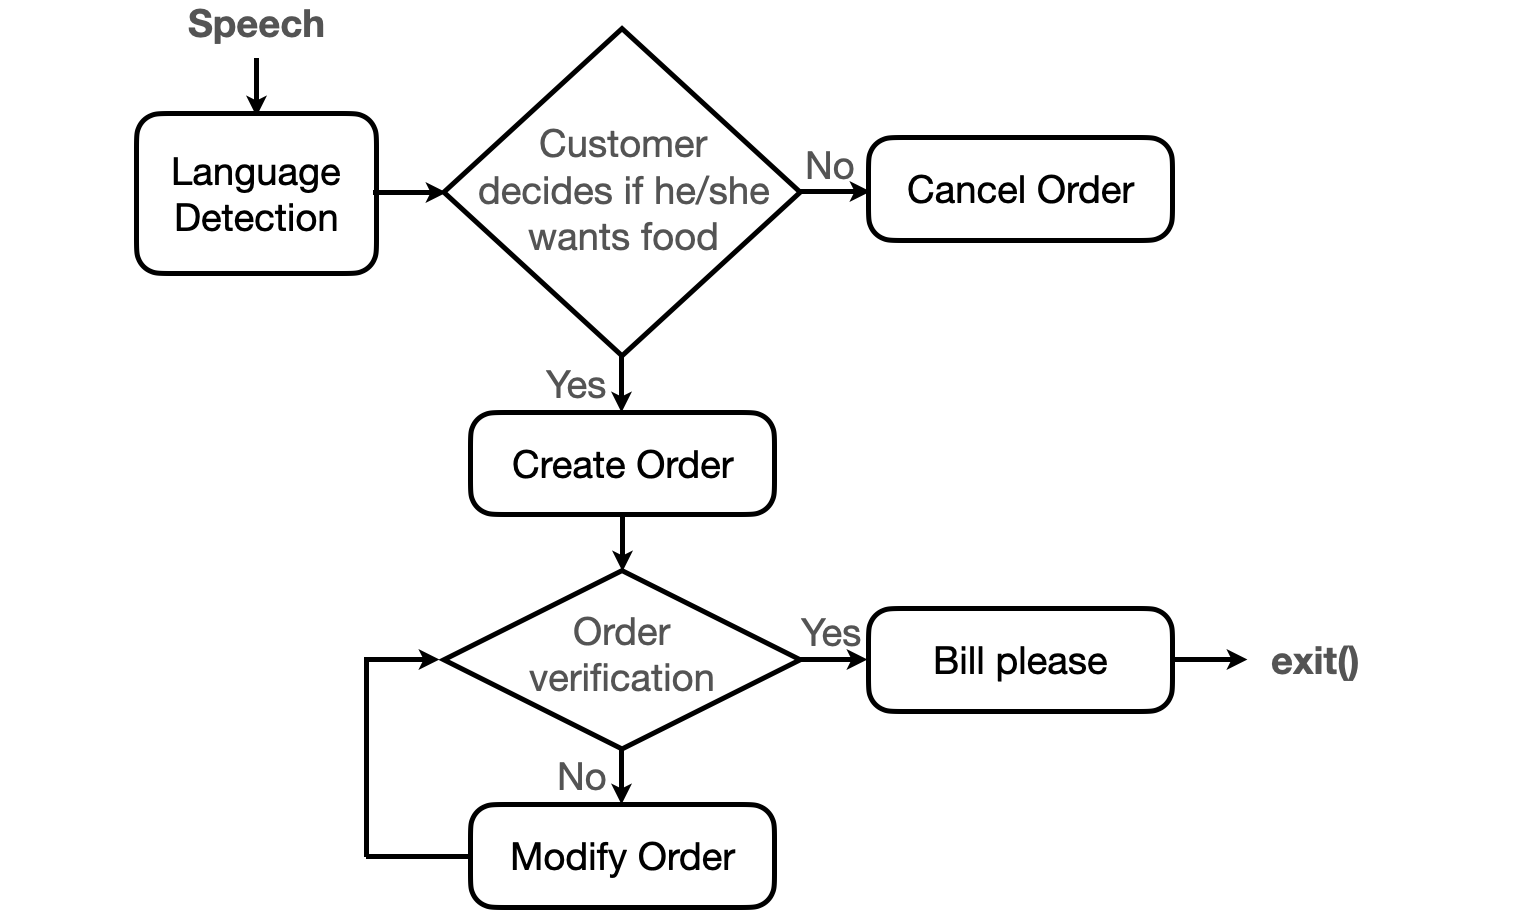
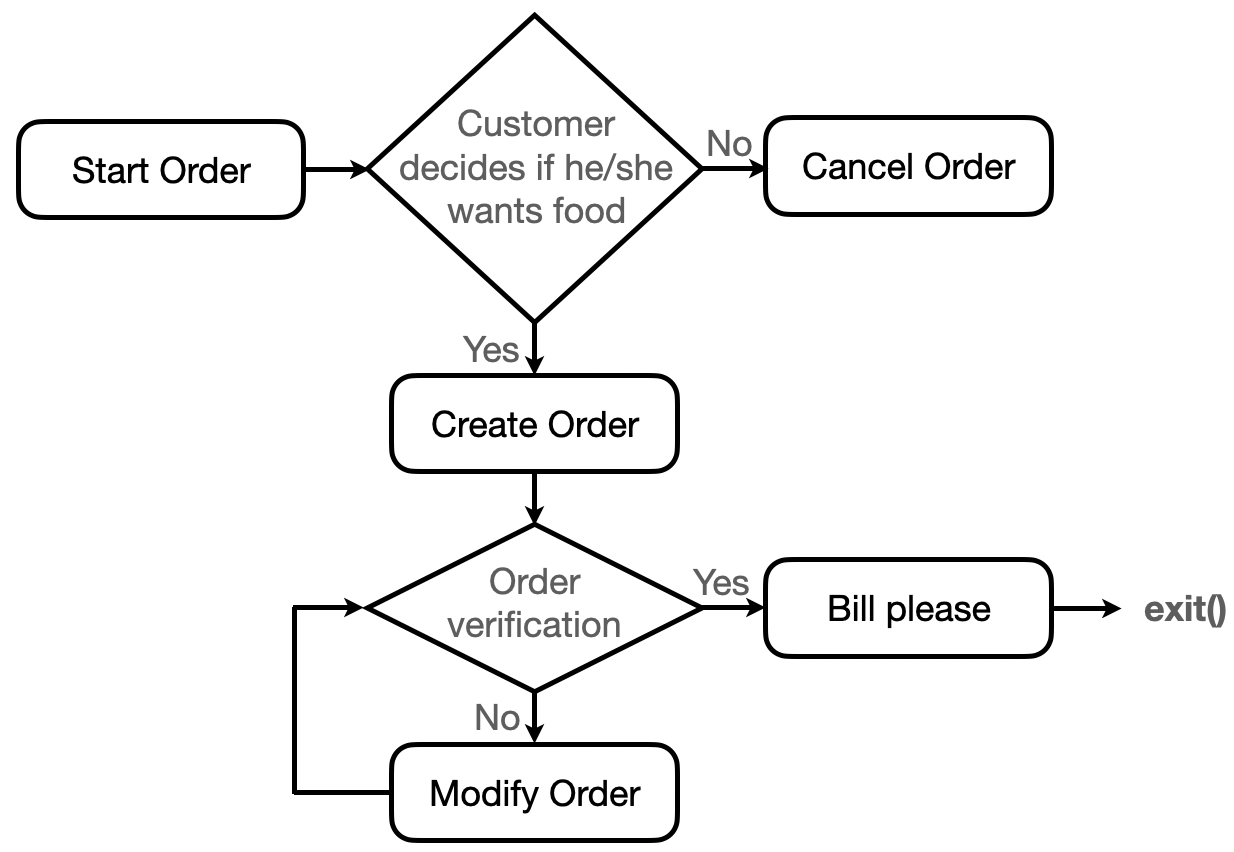
modification and uploading food ordering system

Changed region(s): [[0.0, 0.0, 1.0, 1.0]]

diff --git a/food_order.py b/food_order.py
@@ -1,0 +1,220 @@
+import pyttsx3
+
+list_food = []
+list_drink = []
+
+list_item_price = [0] * 100
+
+class ORDER:
+	def reset():
+		global list_drink, list_food, list_item_order, list_item_price
+		list_item_order = [0] * 100
+
+	def welcome():
+		bot = Speaking()
+		bot.speak("Hello How are you today")
+		bot.speak("What would you like to have")
+		ORDER.process_order()
+
+	def process_order():
+		while True:
+			bot = Speaking()
+			print("*" * 26 + " ORDER FOOD & DRINK " + "*" * 26)
+			print(" |NO| |FOOD NAME|         |PRICE|   |  |NO| |DRINK NAME|        |PRICE|")
+			i = 0
+			while i < len(list_food) or i < len(list_drink):
+				var_space = 1
+				if i <= 8:
+					var_space = 2
+
+				if i < len(list_food):
+					food = " (" + str(i + 1) + ")" + " " * var_space + str(list_food[i]) + "  | "
+				else:
+					food = " " * 36 + "| "
+				if i < len(list_drink):
+					drink = "(" + str(41 + i) + ")" + " " + str(list_drink[i])
+				else:
+					drink = ""
+				print(food, drink)
+				i += 1
+
+			print("\n (P) PAYMENT           (M) MAIN MENU           (C) CHANGE ORDER          (E) EXIT\n" + "_" * 72)
+			input_ops = input("Please Select Your Operation: ").upper()
+			bot.speak("Please Select Your Operation")
+
+			if (input_ops == 'P'):
+				print("\n" * 10)
+				ORDER.bill_please()
+				break
+			if (input_ops == 'M'):
+				print("\n" * 10)
+				ORDER.process_order()
+				break
+			if (input_ops == 'C'):
+				ORDER.modify_order()
+				break
+			if (input_ops == 'E'):
+				ORDER.cancel_order()
+				break
+
+			try:
+				int(input_ops)
+				if ((int(input_ops) <= len(list_food) and int(input_ops) > 0) or (int(input_ops) <= len(list_drink) + 40 and int(input_ops) > 40)):
+					try:
+						print("\n" + "_" * 72 + "\n" + str(list_food[int(input_ops) - 1]))
+					except:
+						pass
+					try:
+						print("\n" + "_" * 72 + "\n" + str(list_drink[int(input_ops) - 41]))
+					except:
+						pass
+
+					input_qty = input("How Many You Want to Order? ").upper()
+					bot.speak("How Many You Want to Order")
+					if int(input_qty) != 0:
+						if int(input_qty) > 0:
+							list_item_order[int(input_ops) - 1] += int(input_qty)
+							print("\n" * 10)
+							print("Successfully Ordered!")
+							ORDER.process_order()
+							break
+						else:
+							if (list_item_order[int(input_ops) - 1]) <= 0:
+								print("\n" * 10 + "ERROR: Invalid Input (" + str(input_qty) + "). Try again!")
+							else:
+								if ( int(input_qty) + list_item_order[int(input_ops) - 1] >= 0):
+									list_item_order[int(input_ops) - 1] += int(input_qty)
+									print("\n" * 10)
+									print("Successfully Ordered!")
+									ORDER.process_order()
+									break
+								else:
+									print("\n" * 10 + "ERROR: Invalid Input (" + str(input_qty) + "). Try again!")
+					else:
+						print("\n" * 10 + "ERROR: Invalid Input (" + str(input_qty) + "). Try again!")
+			except:
+				print("\n" * 10 + "ERROR: Invalid Input (" + str(input_ops) + "). Try again!")
+
+	def menu_reader():
+		file_food = open('menu/list_food.fsd', 'r')
+		for i in file_food:
+			list_food.append(str(i.strip()))
+		file_food.close()
+
+		file_drink = open('menu/list_drink.fsd', 'r')
+		for i in file_drink:
+			list_drink.append(str(i.strip()))
+		file_drink.close()
+
+		i = 0
+		while i <= (len(list_food) - 1):
+			if 'US' in list_food[i]:
+				list_food[i] = str(list_food[i][:list_food[i].index('US') - 1]) + ' ' * (20 - (list_food[i].index('US') - 1)) + str(list_food[i][list_food[i].index('US'):])
+			i += 1
+
+		i = 0
+		while i <= (len(list_drink) - 1):
+			if 'US' in list_drink[i]:
+				list_drink[i] = str(list_drink[i][:list_drink[i].index('US') - 1]) + ' ' * (20 - (list_drink[i].index('US') - 1)) + str(list_drink[i][list_drink[i].index('US'):])
+			i += 1
+
+	def price_reader():
+		global list_food, list_drink
+		list_food = sorted(list_food)
+		list_drink = sorted(list_drink)
+
+		i = 0
+		while i < len(list_food):
+			list_item_price[i] = float(list_food[i][int(list_food[i].index("US") + 3):])
+			i += 1
+
+		i = 0
+		while i < len(list_drink):
+			list_item_price[40 + i] = float(list_drink[i][int(list_drink[i].index("US") + 3):])
+			i += 1
+
+	def modify_order():
+		print("\n" * 10)
+		bot = Speaking()
+		bot.speak("Here is your order list")
+		print("*" * 30 + " ORDER LIST " + "*" * 30 + "\n")
+		total_price = 0
+		i = 0
+		while i < len(list_item_order):
+			if(list_item_order[i] != 0):
+				if (i >= 0) and (i < 40):
+					print(" " * 17 + " (" + str(i + 1) + ")" + str(list_food[i]) + "  x  " + str(list_item_order[i]))
+					total_price += list_item_price[i] * list_item_order[i]
+				if (i >= 40) and (i < 80):
+					print(" " * 17 + " (" + str(i + 1) + ")" + str(list_drink[i - 40]) + "   x  " + str(list_item_order[i]))
+					total_price += list_item_price[i] * list_item_order[i]
+				i += 1
+			else:
+				i += 1
+		print(" " * 17 + "_" * 35 + "\n" + " " * 17 + "TOTAL PRICES:       US " + str(round(total_price, 2)) + "\n")
+		ORDER.process_order()
+
+	def cancel_order():
+		bot = Speaking()
+		bot.speak("Thank you")
+		print("*" * 32 + " THANK YOU " + "*" * 31 + "\n")
+
+	def bill_please():
+		while True:
+			bot = Speaking()
+			bot.speak("Here is your bill")
+			print("*" * 32 + " PAYMENT " + "*" * 33 + "\n")
+			total_price = 0
+			i = 0
+			while i < len(list_item_order):
+				if(list_item_order[i] != 0):
+					if (i >= 0) and (i < 40):
+						print(" " * 17 + str(list_food[i]) + "  x  " + str(list_item_order[i]))
+						total_price += list_item_price[i] * list_item_order[i]
+					if (i >= 40) and (i < 80):
+						print(" " * 17 + str(list_drink[i - 40]) + "   x  " + str(list_item_order[i]))
+						total_price += list_item_price[i] * list_item_order[i]
+					i += 1
+				else:
+					i += 1
+			print(" " * 17 + "_" * 35 + "\n" + " " * 17 + "TOTAL PRICES:       US " + str(round(total_price, 2)))
+			print("\n (P) PAY           (M) MAIN MENU           (C) CHANGE ORDER          (E) EXIT\n" + "_" * 72)
+			bot.speak("Please select your operation")
+			input_ops = str(input("Please Select Your Operation: ")).upper()
+			if (input_ops == 'P'):
+				print("\n" * 10)
+				if (total_price > 0):
+					bot.speak("Successfully paid")
+					print("Successfully Paid!")
+				else:
+					bot.speak("Thank you")
+					print("*" * 32 + " THANK YOU " + "*" * 31 + "\n")
+
+				break
+
+			elif (input_ops == 'M'):
+				print("\n" * 10)
+				ORDER.process_order()
+				break
+			elif (input_ops == 'C'):
+				print("\n" * 10)
+				ORDER.modify_order()
+				break
+			elif ('E' in input_ops) or ('e' in input_ops):
+				ORDER.cancel_order()
+				break
+			else:
+				print("\n" * 10 + "ERROR: Invalid Input (" + str(input_ops) + "). Try again!")
+
+class Speaking:
+	def speak(self, audio):
+		engine = pyttsx3.init()
+		engine.say(audio)
+		engine.runAndWait()
+
+if __name__ == '__main__':
+	ORDER()
+	ORDER.reset()
+	ORDER.menu_reader()
+	ORDER.price_reader()
+	ORDER.welcome()

diff --git a/README.rst b/README.rst
@@ -5,20 +5,25 @@ Taking Your Order
 Basic information
 =================
 
-This is an automatically process to a virtual assistant that can take and process orders.
+This is an automatically process and a facial recognition module to a virtual assistant that can take and process orders. 
 
 You can use the following command to checkout from repository:
 ``git clone https://github.com/yenchanglu/takingYourOrder``
 
+Use following commands for Installation:
+``pip install pyttsx3``
+``sudo apt-get update && sudo apt-get install espeak``
+``sudo apt-get install python3-pyaudio``
+
 Problem to solve
 ================
 
-It often feels like everything in our lives is designed to make the world move faster. An example of this modern impatience is the drive-thru: people became frustrated with waiting in slow drive-thru line. Why "fast food" restaurant speed of customer order processing is getting slow? Because it is still being done today as they were 50 years ago. This project is working on a way for modernizing the drive-thru, reducing unnecessary procedures and waiting time. It can also free up restaurant staff to focus on tasks that increase throughput. What's even better is that ordering food in a foreign language can be no longer frightening since the system will also translate the food and beverage menu in many different languages.
+It often feels like everything in our lives is designed to make the world move faster. An example of this modern impatience is the drive-thru: people became frustrated with waiting in slow drive-thru line. Why "fast food" restaurant speed of customer order processing is getting slow? Because it is still being done today as they were 50 years ago. This project is working on a way for modernizing the drive-thru, reducing unnecessary procedures and waiting time. It can also free up restaurant staff to focus on tasks that increase throughput.
 
 Perspective users
 =================
 
-Clerk doesn't need to enter orders into POS and announce the total, receive payment and give change to customer anymore. Clerk just receives order and gives order to customer with this system. For hungry and thirsty people, it will make waiting in line less-annoying. It will also make travel easier for the foreign tourists.
+Clerk doesn't need to enter orders into POS and announce the total, receive payment and give change to customer anymore. Clerk just receives order and gives order to customer with this system. For hungry and thirsty people, it will make waiting in line less-annoying.
 
 System architecture
 ===================
@@ -28,7 +33,7 @@ System architecture
 API description
 ===============
 
-``welcome:: To set up an order and choose language``
+``welcome:: To set up an order``
 
 ``process_order:: To enter order into POS``
 
@@ -40,21 +45,27 @@ API description
 
 ``bill_please:: To announce the total``
 
+C++ wrapper API
+===============
+
+``std::pair<std::vector<double>, Matrix> eigenface(Matrix *mat)``
+
+``std::vector<std::vector<double> > load_data()``
+
+``std::vector<double> read_pgm(std::ifstream &file)``
+
+``void write_pgm(std::string file, Matrix *img)``
+
+``size_t recognition(Matrix X, Matrix M, Matrix U, Matrix W)``
+
 Engineering infrastructure
 ==========================
 
-The system uses C++ and Python for speech recognition and high-level API, and will be built with cmake. This GitHub repository will be setting up continuous integration with GitHub Actions.
-
-Coding style
-__________________
-
-* .clang-format - Config file for clang-format. clang-format is a tool to  formatting C/C++ code
-* .style.yapf - Config file for yapf, formatter for Python code.
+The system uses C++ and Python for speech/facial recognition and high-level API. This GitHub repository will be setting up continuous integration with GitHub Actions.
 
 Testing framework
 __________________
 
-* C++ unit testing with Google Test
 * Unit testing Python code with the unittest module
 
 Schedule
@@ -62,15 +73,16 @@ Schedule
 
 * W1 (10/19): Planning, software architecture and development
 * W2 (10/26): Studying on speech recognition algorithms
-* W3 (11/2): Implementing the speech recognition module
-* W4 (11/9): Developing the ordering system
+* W3 (11/02): Implementing the speech recognition module
+* W4 (11/09): Developing the ordering system
 * W5 (11/16): Improving the performance and user experience
 * W6 (11/23): Integrating voice orders into the system 
 * W7 (11/30): Writing unit tests for C++/Python
-* W8 (12/7): Software testing
+* W8 (12/07): Software testing
 * W9 (12/14): Debugging and optimizing
 * W10 (12/21): Preparing for term project presentation
-* W11 (12/28): Term project presentation
+* W11 (12/28): Term project presentation I
+* W12 (1/4): Term project presentation II
 
 References
 ==========
@@ -78,3 +90,5 @@ References
 1. https://github.com/mozilla/DeepSpeech
 
 2. https://creately.com/diagram/example/ikqbnbgp1/McDonalds%20Drive%20Through%20Ordering%20Process
+
+3. https://en.wikipedia.org/wiki/Jacobi_eigenvalue_algorithm
